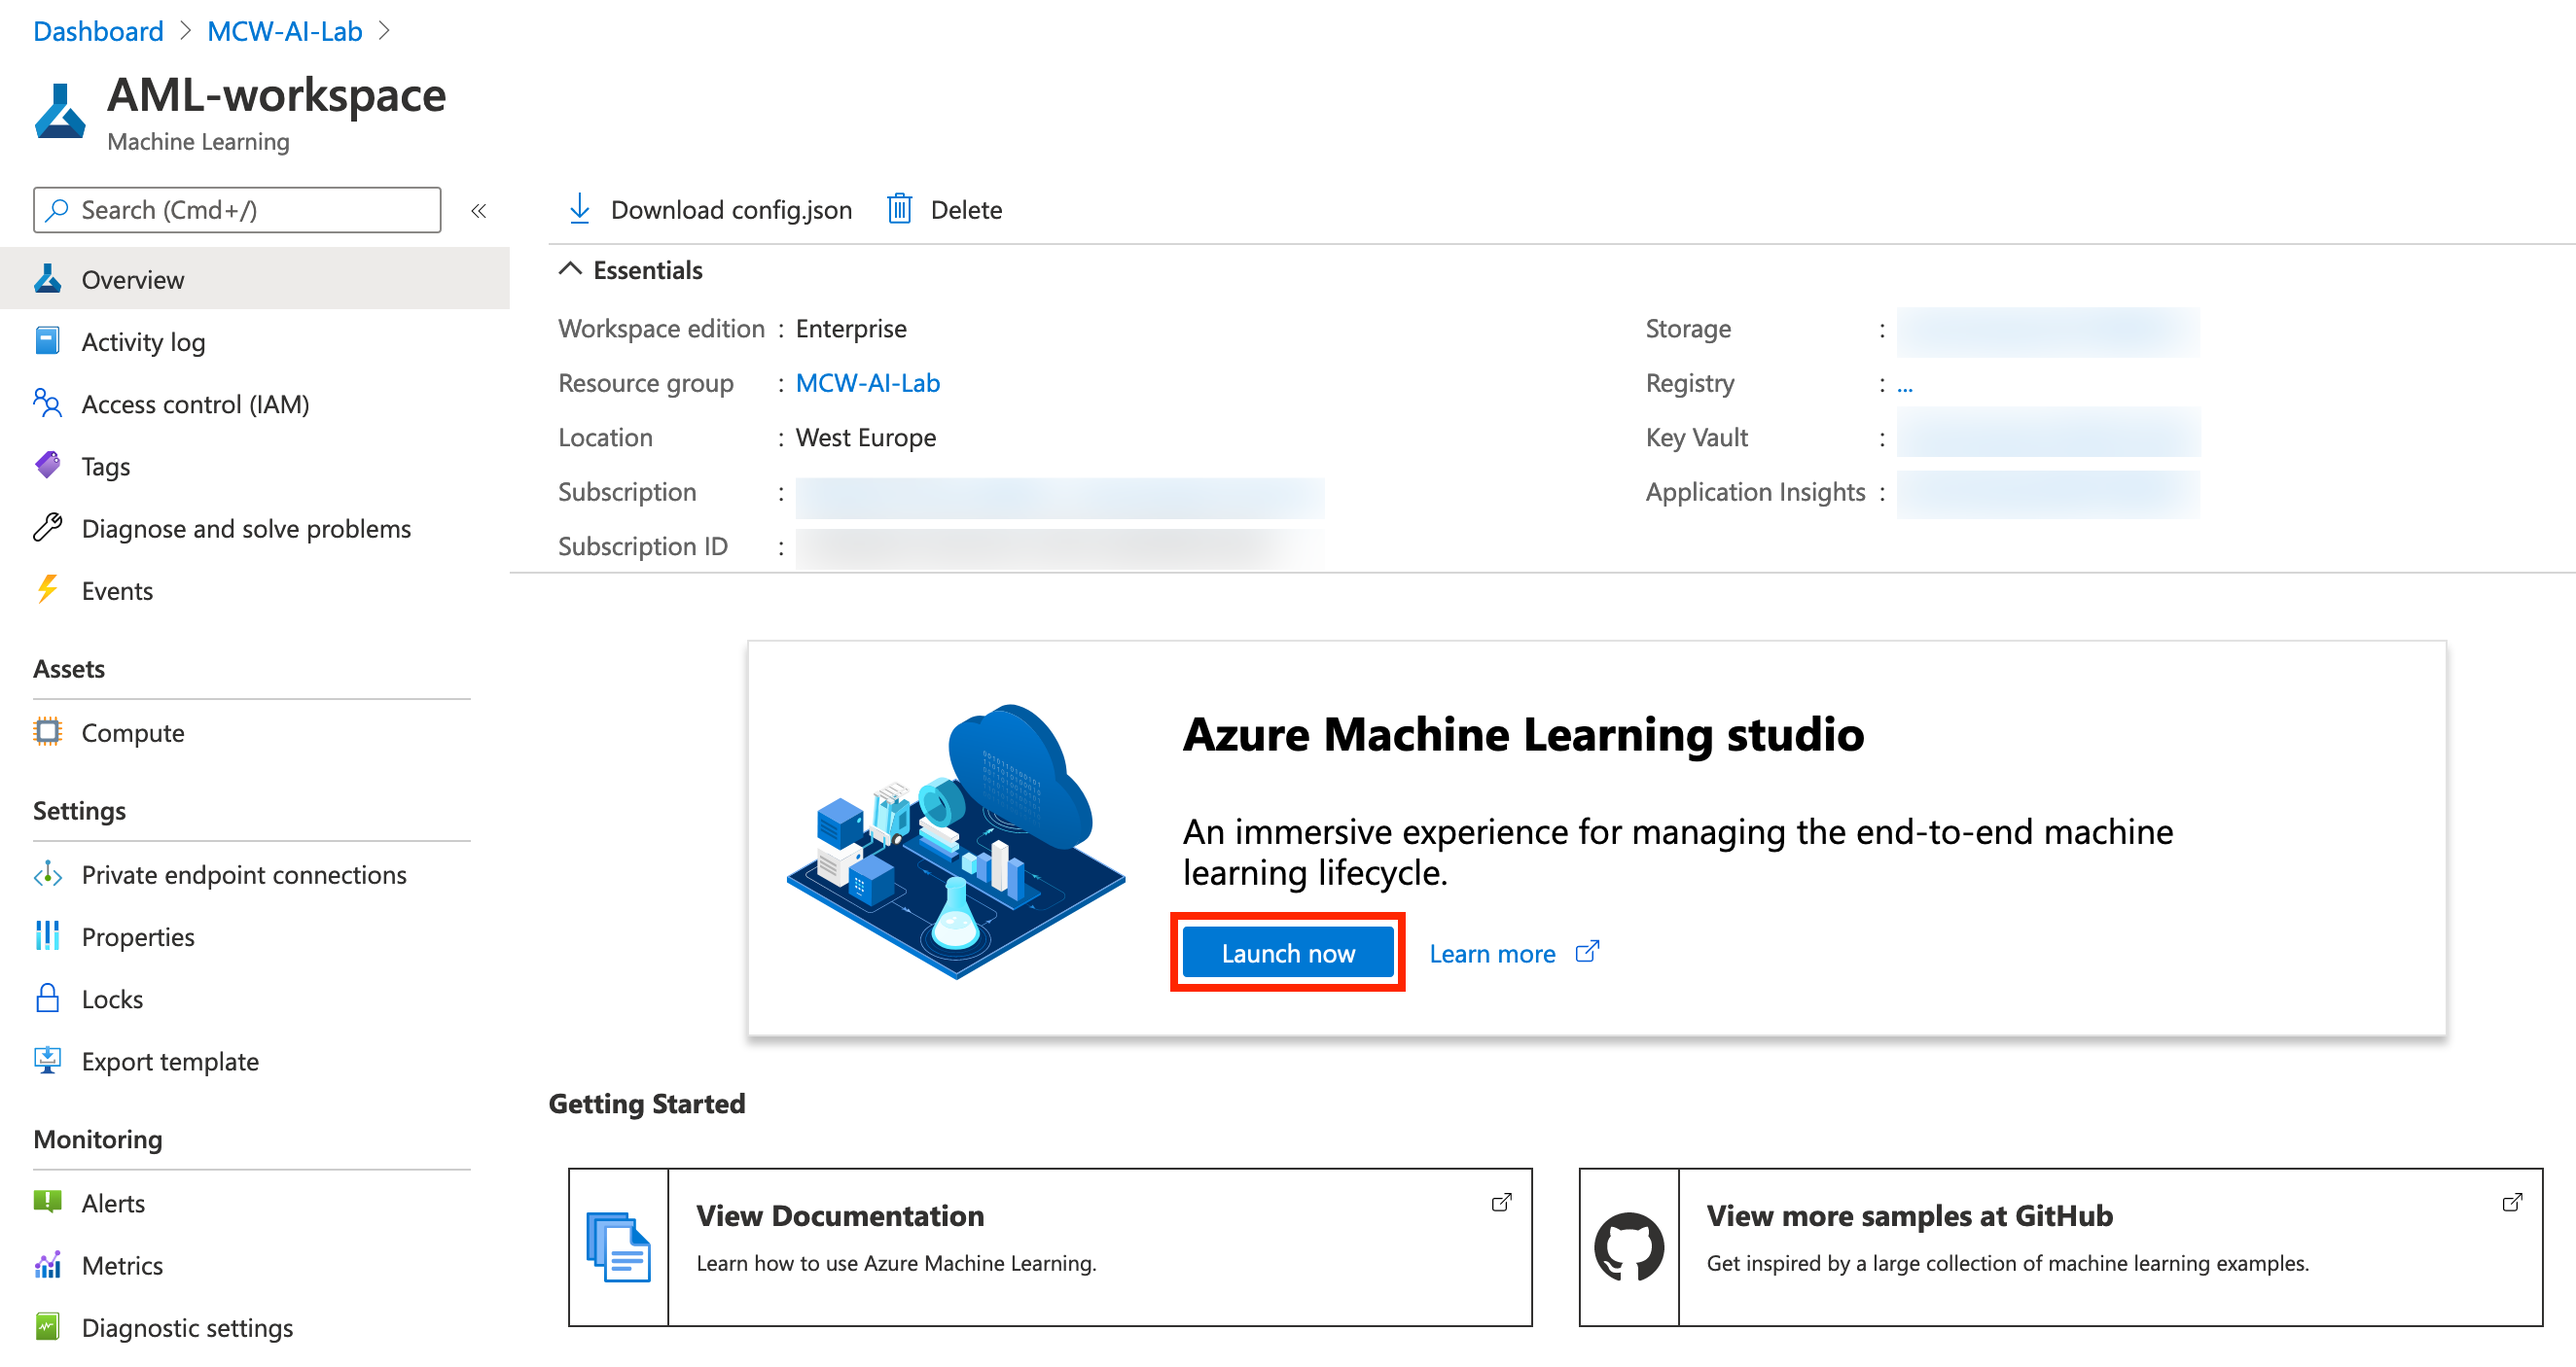
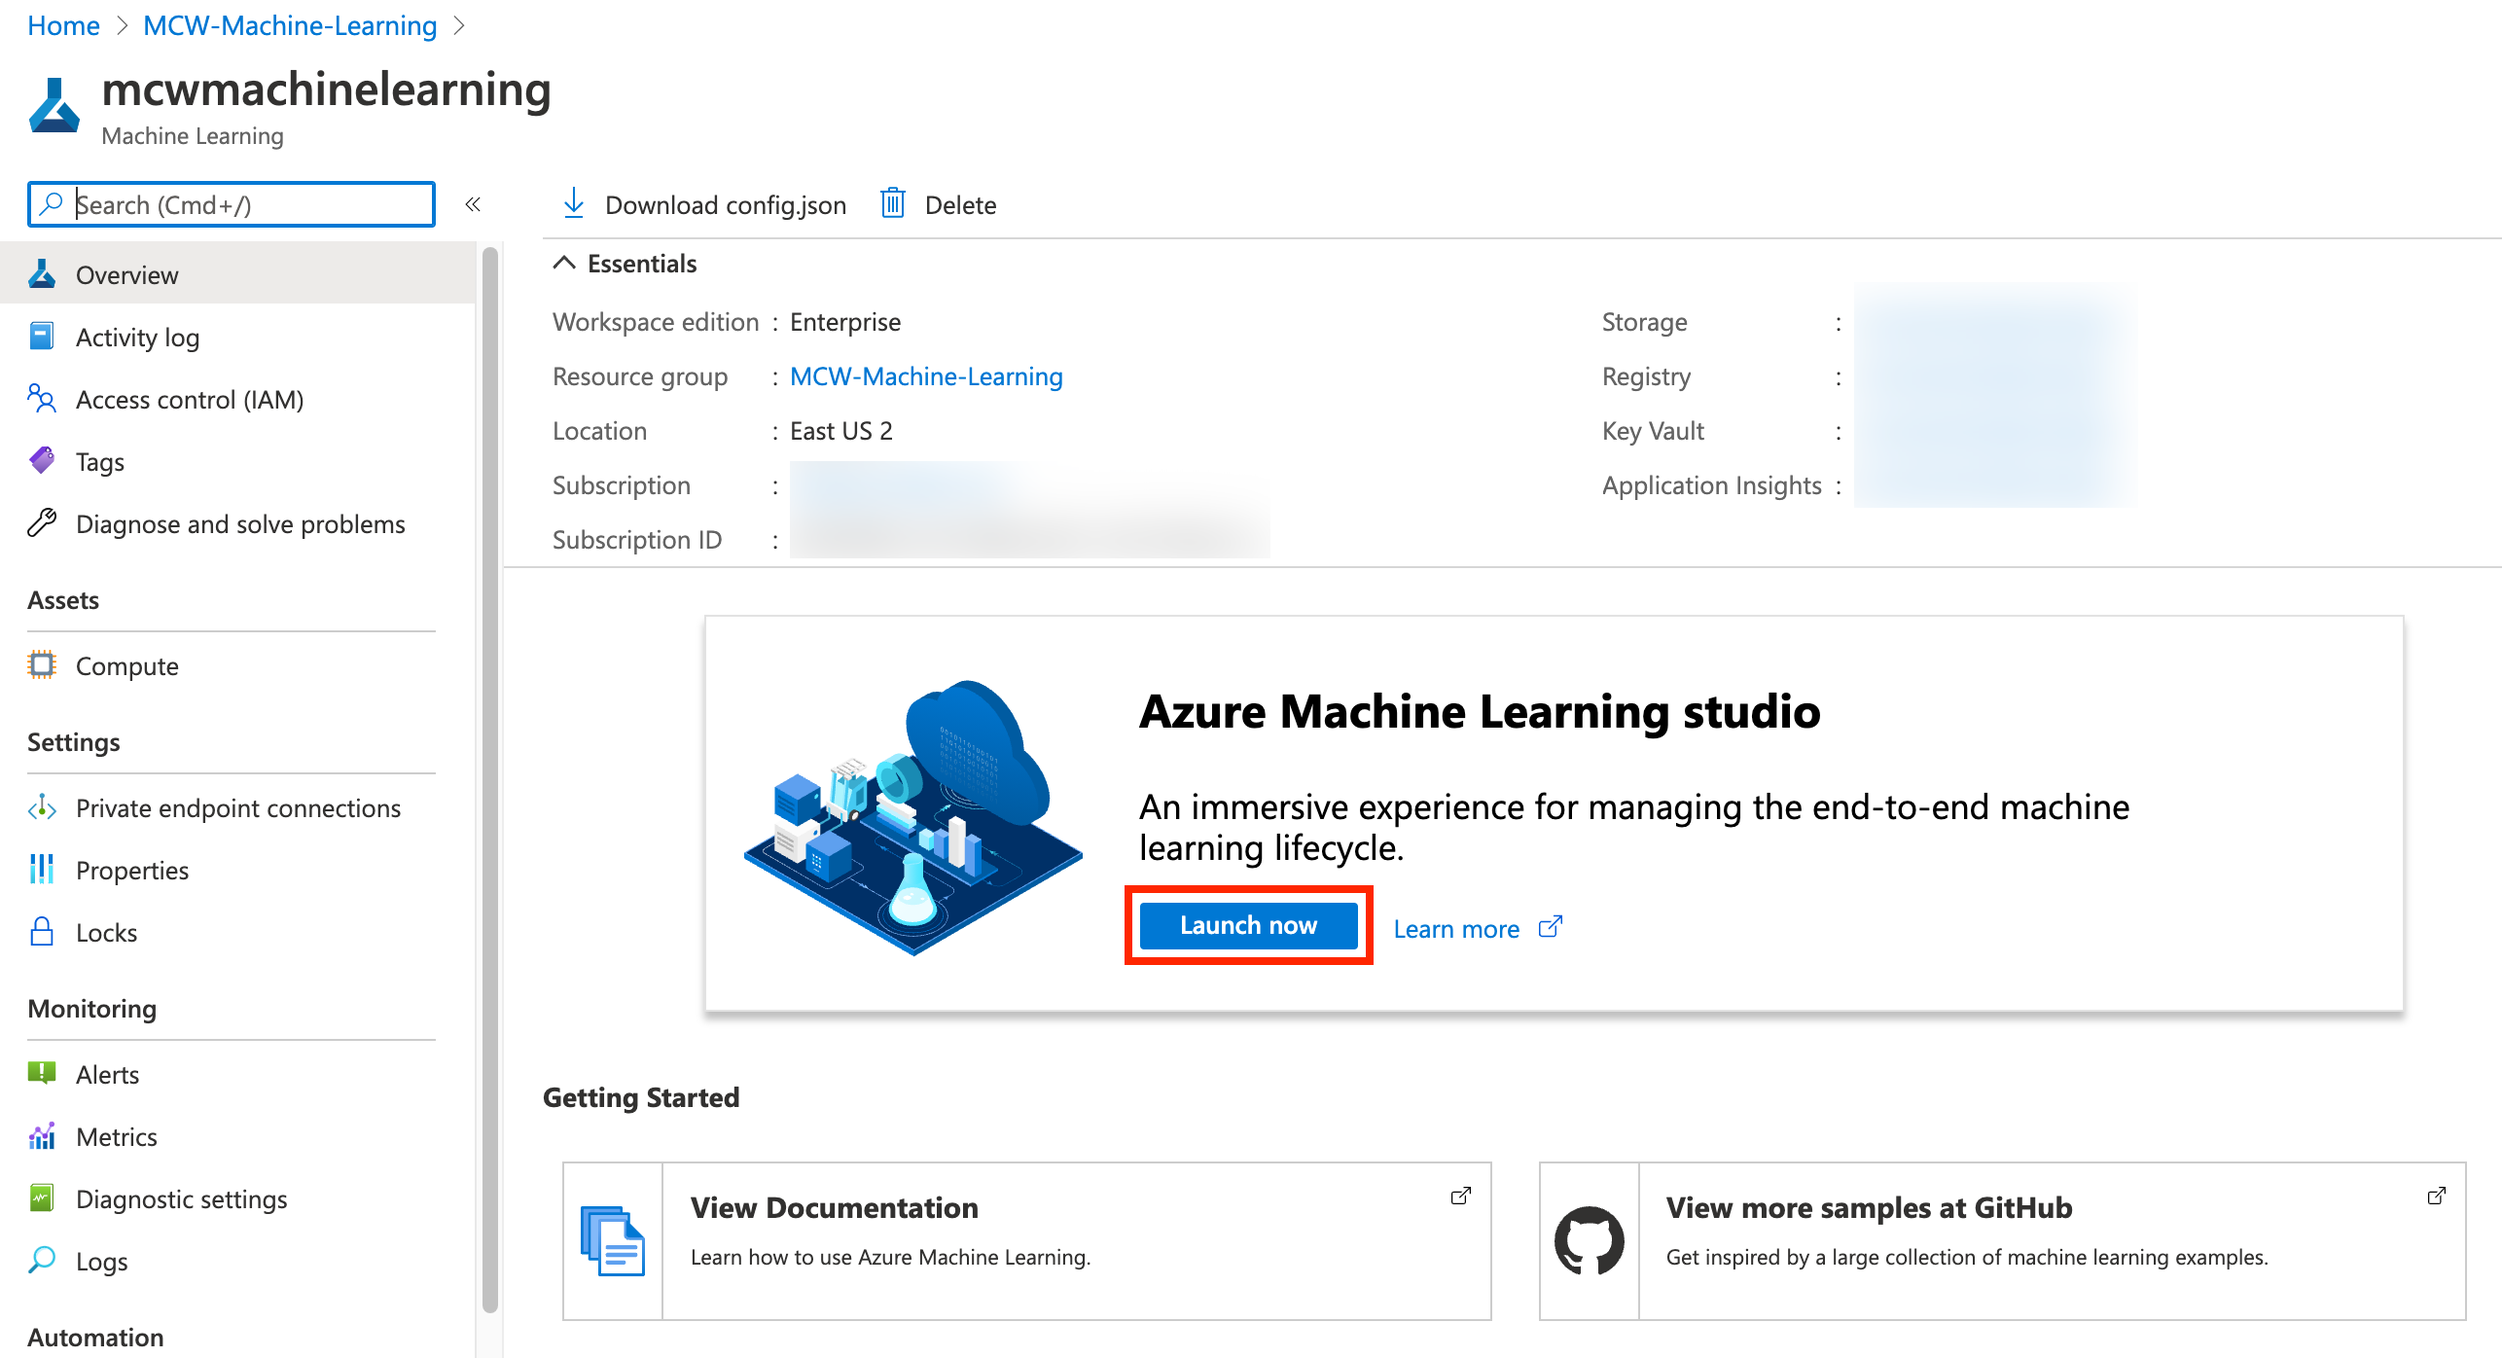
Updated screenshots to reflect the new resource names

diff --git a/Hands-on lab/Before the HOL - Machine Learning.md b/Hands-on lab/Before the HOL - Machine Learning.md
@@ -69,7 +69,7 @@ Azure Databricks is an Apache Spark-based analytics platform optimized for Azure
 
     - **Subscription**: Select the subscription you are using for this hands-on lab.
 
-    - **Resource Group**: Select **Create new** and provide the name `MCW-AI-Lab`.
+    - **Resource Group**: Select **Create new** and provide the name `MCW-Machine-Learning`.
 
     - **Location**: Select a region close to you. ***(If you are using an Azure Pass, select South Central US.)***
 
@@ -83,7 +83,7 @@ Azure Databricks is an Apache Spark-based analytics platform optimized for Azure
 
 You have provisioned an Azure Databricks workspace, and now you need to create a new cluster within the workspace.
 
-1. From within Azure portal navigate to your resource group name (e.g., `MCW-AI-Lab`).
+1. From within Azure portal navigate to your resource group name (e.g., `MCW-Machine-Learning`).
 
 2. Next, select your Azure Databricks service from the list.
 
@@ -107,7 +107,7 @@ You have provisioned an Azure Databricks workspace, and now you need to create a
 
     - **Cluster Mode**: **Standard**
 
-    - **Databricks Runtime Version**: **Runtime: 6.6 (Scala 2.11, Spark 2.4.5)**
+    - **Databricks Runtime Version**: **Runtime: 7.0 (Scala 2.12, Spark 3.0.0)**
 
     - **Enable autoscaling**: **Uncheck** this option.
 
@@ -175,7 +175,7 @@ The notebooks you will run depends on certain Python libraries that will need to
 
 3. In the Create Machine Learning Workspace dialog that appears, provide the following values:
 
-    - **Workspace Name**: `AML-workspace`
+    - **Workspace Name**: `mcwmachinelearning`
 
     - **Subscription**: Choose your Azure subscription.
 

diff --git a/Hands-on lab/HOL step-by step - Machine Learning.md b/Hands-on lab/HOL step-by step - Machine Learning.md
@@ -220,9 +220,9 @@ In this exercise, you will create a model that predicts battery failure from tim
 
 2. Provide the `Name`, `Description` and `Compute type`, and then select **Deploy**:
 
-    - **Name**: **battery-cycles**
+    - **Name**: `battery-cycles`
 
-    - **Description**: **The best AutoML model to predict battery cycles.**
+    - **Description**: `The best AutoML model to predict battery cycles.`
 
     - **Compute type**: Select `ACI`.
 
@@ -292,7 +292,7 @@ To avoid unexpected charges, it is recommended that you clean up all of your lab
 
 ### Task 1: Clean up lab resources
 
-1. Navigate to the Azure Portal and locate the `MCW-AI-Lab` Resource Group you created for this lab.
+1. Navigate to the Azure Portal and locate the `MCW-Machine-Learning` Resource Group you created for this lab.
 
 2. Select **Delete resource group** from the command bar.
 
